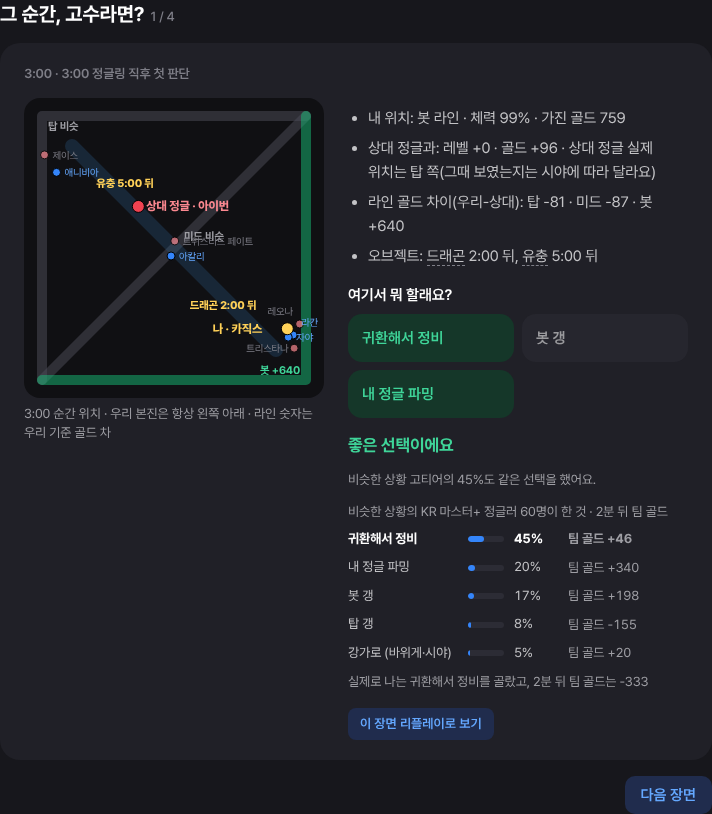
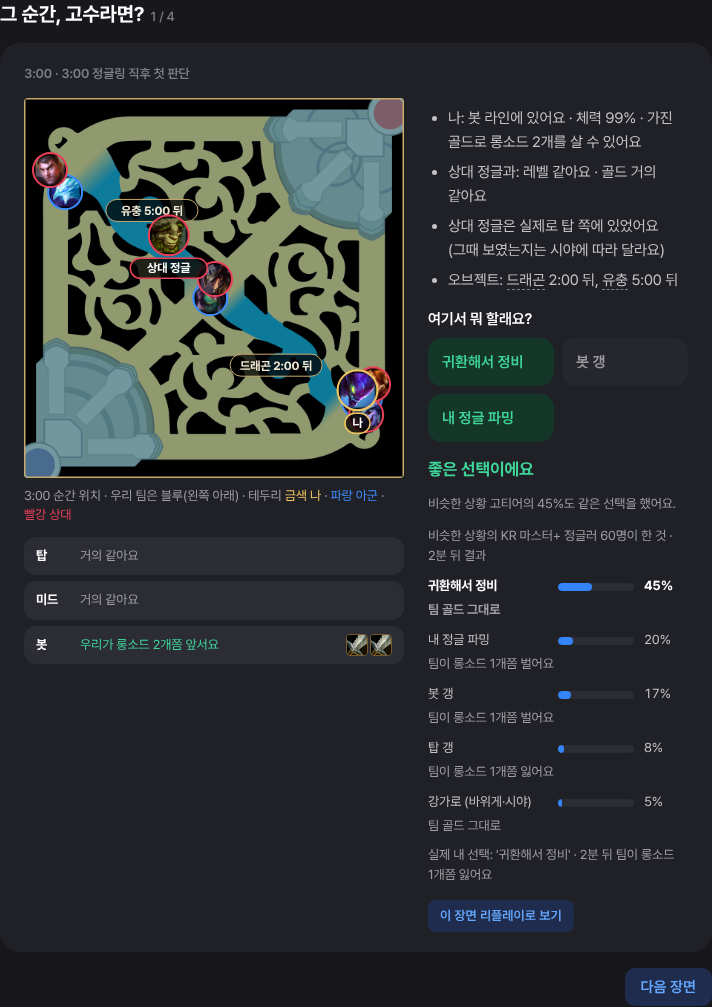
미니맵을 실제 롤 UI처럼 (지도 이미지·원형 초상화·팀 테두리·'나'/'상대 정글' 표시), 골드 차이는 아이템으로 말하기
- 골드 → 롱소드/B.F. 대검/완성 아이템 개수 (Data Dragon 최신 패치 가격), 가진 골드는 '롱소드 2개를 살 수 있어요'
- 라인 상황은 지도 밖 목록 + 아이템 아이콘, 2분 뒤 결과도 '팀이 롱소드 1개쯤 벌어요'
- Data Dragon 동기화 때 item.json 도 받음

Claude-Session: https://claude.ai/code/session_01TUbpMHnTukN67Q2yo7jTv9

diff --git a/backend/src/loldosa/app/static/js/review.js b/backend/src/loldosa/app/static/js/review.js
@@ -149,7 +149,7 @@ async function loadMoments(matchId, box) {
       <section class="card moment">
         <div class="eyebrow num">${mo.minute}:00 · ${esc(mo.reason)}</div>
         <div class="mo-grid">${board(mo.snapshot)}
-          <div><ul class="plain">${mo.snapshot.facts.map((f) => `<li>${linkify(f)}</li>`).join("")}</ul>
+          <div><ul class="plain">${mo.snapshot.facts.filter((f) => !f.startsWith("라인:")).map((f) => `<li>${linkify(f)}</li>`).join("")}</ul>
             <div class="title" style="margin:16px 0 8px">여기서 뭐 할래요?</div>
             <div class="choices">${mo.choices.map((c) => `<button class="choice" data-a="${c.action}">${esc(c.label)}</button>`).join("")}</div>
             <div class="reveal"></div></div></div>
@@ -172,11 +172,11 @@ function reveal(matchId, mo, box, choice) {
   });
   const bars = mo.crowd.slice(0, 5).map((c) => `<div class="crowd ${c.action === choice ? "picked" : ""}">
       <span>${esc(c.label)}</span><span class="bar"><i style="width:${Math.round(c.share * 100)}%"></i></span><span class="num">${Math.round(c.share * 100)}%</span>
-      <span class="sub num">팀 골드 ${signed(c.swing)}</span></div>`).join("");
+      <span class="sub">${esc(c.swing_say || "")}</span></div>`).join("");
   $(".reveal", box).innerHTML = `<div class="verdict ${good ? "good" : "bad"}">${good ? "좋은 선택이에요" : "고수는 다르게 많이 골랐어요"}</div>
     <p class="sub">${esc(mo.verdict)}</p>
-    <div class="sub" style="margin:12px 0 6px">비슷한 상황의 ${esc(mo.pool_label)} 정글러 ${mo.k}명이 한 것 · 2분 뒤 팀 골드</div>${bars}
-    <p class="sub" style="margin-top:8px">실제로 나는 ${esc(mo.mine.label)}를 골랐고, 2분 뒤 팀 골드는 ${signed(mo.mine.swing)}${mo.mine.died ? " · 내가 죽었어요" : ""}</p>
+    <div class="sub" style="margin:12px 0 6px">비슷한 상황의 ${esc(mo.pool_label)} 정글러 ${mo.k}명이 한 것 · 2분 뒤 결과</div>${bars}
+    <p class="sub" style="margin-top:8px">실제 내 선택: '${esc(mo.mine.label)}' · 2분 뒤 ${esc(mo.mine.swing_say || "")}${mo.mine.died ? " · 내가 죽었어요" : ""}</p>
     <div class="btn-row"><button class="btn weak s" id="mo-replay">이 장면 리플레이로 보기</button></div>`;
   $("#mo-replay", box).onclick = () => openReplay(matchId, mo.t);
   post("/api/moments/answer", { match_id: matchId, minute: mo.minute, choice, good, concepts: mo.concepts.map((c) => c.id),
@@ -184,38 +184,42 @@ function reveal(matchId, mo, box, choice) {
       crowd: mo.crowd.slice(0, 6), good: mo.good, verdict: mo.verdict, mine: mo.mine, k: mo.k, pool_label: mo.pool_label, concepts: mo.concepts } }).catch(() => {});
 }
 
-/** 상황판: 우리 본진 항상 왼쪽 아래, 글자 라벨, 라인 골드 차는 색+글자 (R6: 그림 없이도 facts 로 결론 전달) */
-export function board(snap, size = 300) {
-  const M = 14870, flip = snap.team === 200, S = size, pad = 18;
-  const X = (x) => ((flip ? M - x : x) / M) * S, Y = (y) => S - ((flip ? M - y : y) / M) * S;
-  const L = snap.lanes || {};
-  const cls = (v) => (v > 150 ? "win" : v < -150 ? "lose" : "even");
-  const say = (v) => (v > 150 ? `+${comma(v)}` : v < -150 ? comma(v) : "비슷");
-  const boxes = [];
-  const toks = [...snap.units].sort((a, b) => (b.me ? 3 : b.enemy_jungler ? 2 : 0) - (a.me ? 3 : a.enemy_jungler ? 2 : 0)).map((u) => {
-    const c = u.me ? "me" : u.enemy_jungler ? "ejg" : u.ally ? "ally" : "enemy";
-    const text = u.me ? `나 · ${u.name}` : u.enemy_jungler ? `상대 정글 · ${u.name}` : u.name;
-    const w = text.length * (u.me || u.enemy_jungler ? 9.5 : 8), cx = X(u.x), cy = Y(u.y);
-    let spot = null;
-    for (const [dx, dy] of [[8, 4], [8, -9], [8, 17], [-8 - w, 4], [-8 - w, -9], [8, 30]]) {
-      let bx = cx + dx; if (bx + w > S - 2) bx = cx - 8 - w; if (bx < 2) bx = 2;
-      const by = cy + dy - 10;
-      if (!boxes.some((b) => bx < b.x + b.w && bx + w > b.x && by < b.y + 12 && by + 12 > b.y)) { spot = { x: bx, y: by }; break; }
-    }
-    spot = spot || { x: Math.min(cx + 8, S - w - 2), y: cy - 6 };
-    boxes.push({ x: spot.x, y: spot.y, w });
-    return `<g class="tok ${c}"><circle cx="${cx}" cy="${cy}" r="${u.me || u.enemy_jungler ? 6 : 4}"/><text x="${spot.x}" y="${spot.y + 10}">${esc(text)}</text></g>`;
-  }).reverse().join("");
-  const objs = snap.objectives.map((o) => `<text class="obj" x="${X(o.x)}" y="${Y(o.y)}" text-anchor="middle">${esc(o.name)} ${esc(o.text)}</text>`).join("");
-  return `<figure class="board-wrap"><svg class="board" viewBox="0 0 ${S} ${S}" role="img" aria-label="${snap.minute}분 상황판">
-    <rect width="${S}" height="${S}" rx="16" class="bg"/>
-    <path d="M${pad} ${S - pad} L${pad} ${pad} L${S - pad} ${pad}" class="lane ${cls(L.top)}"/>
-    <path d="M${pad} ${S - pad} L${S - pad} ${pad}" class="lane ${cls(L.mid)}"/>
-    <path d="M${pad} ${S - pad} L${S - pad} ${S - pad} L${S - pad} ${pad}" class="lane ${cls(L.bot)}"/>
-    <path d="M${pad + 30} ${pad + 30} L${S - pad - 30} ${S - pad - 30}" class="river"/>
-    <text class="lbl ${cls(L.top)}" x="${pad + 6}" y="${pad + 14}">탑 ${say(L.top)}</text>
-    <text class="lbl ${cls(L.mid)}" x="${S / 2 + 10}" y="${S / 2 - 8}">미드 ${say(L.mid)}</text>
-    <text class="lbl ${cls(L.bot)}" x="${S - pad - 6}" y="${S - pad - 6}" text-anchor="end">봇 ${say(L.bot)}</text>
-    ${objs}${toks}</svg>
-    <figcaption class="sub">${snap.minute}:00 순간 위치 · 우리 본진은 항상 왼쪽 아래 · 라인 숫자는 우리 기준 골드 차</figcaption></figure>`;
+/** 미니맵: 실제 롤 미니맵처럼 (지도 이미지 · 원형 초상화 · 아군 파랑/적 빨강/나 금색 테두리 · 방향도 게임과 같게).
+ * 글자는 '나'와 '상대 정글'에만 단다 (나머지는 실제 미니맵처럼 얼굴로 알아보게). 라인 상황은 지도 밖에 아이템으로. */
+export function board(snap, size = 380) {
+  const M = 14870, S = size, R = Math.round(S * 0.042);  // 초상화 반지름
+  const X = (x) => (x / M) * S, Y = (y) => S - (y / M) * S;
+  const ver = state.ddragon;
+  const mapUrl = ver ? `https://ddragon.leagueoflegends.com/cdn/${ver}/img/map/map11.png` : "";
+  const units = [...snap.units].sort((a, b) => (a.me ? 1 : a.enemy_jungler ? 0.5 : 0) - (b.me ? 1 : b.enemy_jungler ? 0.5 : 0));
+  const tok = units.map((u, i) => {
+    const cx = X(u.x), cy = Y(u.y), big = u.me || u.enemy_jungler, r = big ? R + 3 : R;
+    const ring = u.me ? "var(--mm-me)" : u.ally ? "var(--mm-ally)" : "var(--mm-enemy)";
+    const img = u.key && ver ? `https://ddragon.leagueoflegends.com/cdn/${ver}/img/champion/${u.key}.png` : "";
+    const tag = u.me ? "나" : u.enemy_jungler ? "상대 정글" : "";
+    return `<g class="mm-u"><clipPath id="c${i}"><circle cx="${cx}" cy="${cy}" r="${r}"/></clipPath>
+      <circle cx="${cx}" cy="${cy}" r="${r + 2}" fill="${ring}"/>
+      ${img ? `<image href="${img}" x="${cx - r}" y="${cy - r}" width="${r * 2}" height="${r * 2}" clip-path="url(#c${i})"/>` : `<circle cx="${cx}" cy="${cy}" r="${r}" fill="#333"/>`}
+      ${tag ? `<g class="mm-tag ${u.me ? "me" : "ejg"}"><rect x="${cx - tag.length * 6.5 - 6}" y="${cy + r + 4}" width="${tag.length * 13 + 12}" height="20" rx="10"/>
+        <text x="${cx}" y="${cy + r + 18}" text-anchor="middle">${tag}</text></g>` : ""}
+      <title>${esc(u.name)}${u.hp != null ? ` · 체력 ${u.hp}%` : ""}</title></g>`;
+  }).join("");
+  const objs = snap.objectives.map((o) => `<g class="mm-obj"><rect x="${X(o.x) - 46}" y="${Y(o.y) - 11}" width="92" height="22" rx="11"/>
+    <text x="${X(o.x)}" y="${Y(o.y) + 5}" text-anchor="middle">${esc(o.name)} ${esc(o.text)}</text></g>`).join("");
+  const li = snap.lane_items || {};
+  const ITEM = (id) => (ver && id ? `<img class="mm-item" src="https://ddragon.leagueoflegends.com/cdn/${ver}/img/item/${id}.png" alt="">` : "");
+  const lane = (k, name) => {
+    const x = li[k] || {};
+    const n = Math.min(4, Math.ceil(x.count || 0));
+    const icons = x.item ? Array.from({ length: n }, () => ITEM(x.item)).join("") : "";
+    return `<li class="${!x.count ? "even" : x.ahead ? "win" : "lose"}"><b>${name}</b><span>${esc(x.say || "-")}</span><span class="icons">${icons}</span></li>`;
+  };
+  return `<figure class="minimap-wrap">
+    <svg class="minimap" viewBox="0 0 ${S} ${S}" role="img" aria-label="${snap.minute}분 미니맵">
+      ${mapUrl ? `<image href="${mapUrl}" width="${S}" height="${S}" preserveAspectRatio="none"/>` : `<rect width="${S}" height="${S}" fill="#0b1a14"/>`}
+      <rect width="${S}" height="${S}" fill="none" stroke="#c8aa6e" stroke-width="3"/>
+      ${objs}${tok}</svg>
+    <figcaption class="sub">${snap.minute}:00 순간 위치 · 우리 팀은 ${snap.team === 100 ? "블루(왼쪽 아래)" : "레드(오른쪽 위)"} · 테두리 <span style="color:var(--mm-me)">금색 나</span> · <span style="color:var(--mm-ally)">파랑 아군</span> · <span style="color:var(--mm-enemy)">빨강 상대</span></figcaption>
+    <ul class="lanes">${lane("top", "탑")}${lane("mid", "미드")}${lane("bot", "봇")}</ul>
+  </figure>`;
 }

diff --git a/backend/src/loldosa/app/static/css/screens.css b/backend/src/loldosa/app/static/css/screens.css
@@ -101,3 +101,25 @@ label.row { cursor: pointer; }
   .brief-grid { grid-template-columns: 1fr; } .teams { position: static; }
   .mo-grid, .moment .mo-grid { grid-template-columns: 1fr; } .tl-grid { grid-template-columns: 1fr; }
 }
+
+/* ---------- 미니맵 (실제 롤 UI 처럼) ---------- */
+:root { --mm-me: #f0c75e; --mm-ally: #3b8cff; --mm-enemy: #e84057; }
+.minimap-wrap { margin: 0; }
+svg.minimap { width: 100%; height: auto; display: block; border-radius: 4px; background: #0b1a14; }
+.mm-tag rect { fill: rgba(0, 0, 0, .78); }
+.mm-tag text { font: 700 12px var(--font); fill: #fff; }
+.mm-tag.me rect { stroke: var(--mm-me); stroke-width: 1.5; } .mm-tag.ejg rect { stroke: var(--mm-enemy); stroke-width: 1.5; }
+.mm-obj rect { fill: rgba(0, 0, 0, .75); stroke: #c8aa6e; stroke-width: 1; }
+.mm-obj text { font: 700 12px var(--font); fill: #f0e6d2; }
+.minimap-wrap figcaption { margin-top: 8px; }
+.lanes { list-style: none; padding: 0; margin: 12px 0 0; display: grid; gap: 6px; }
+.lanes li { display: grid; grid-template-columns: 36px 1fr auto; gap: 8px; align-items: center; padding: 8px 12px; border-radius: 12px; background: var(--bg-float); font-size: var(--t7); }
+.lanes li b { color: var(--grey900); }
+.lanes li.win span:nth-child(2) { color: var(--green-text); } .lanes li.lose span:nth-child(2) { color: var(--red-text); } .lanes li.even span:nth-child(2) { color: var(--grey600); }
+.lanes .icons { display: flex; gap: 2px; }
+.mm-item { width: 22px; height: 22px; border-radius: 4px; border: 1px solid #785a28; }
+.moment .mo-grid, .mo-grid { grid-template-columns: 380px 1fr; }
+/* 고수 선택 비율: 1줄 = 행동·막대·비율, 2줄 = 2분 뒤 결과(아이템 말) */
+.crowd { grid-template-columns: 120px 1fr 44px; row-gap: 2px; margin: 10px 0; }
+.crowd > .sub { grid-column: 1 / -1; }
+.crowd .bar { height: 8px; }

diff --git a/backend/src/loldosa/app/static/js/flows.js b/backend/src/loldosa/app/static/js/flows.js
@@ -34,7 +34,7 @@ export async function startSrs(after) {
     } else {
       const mo = it.moment;
       sh.innerHTML = `${head}<h2 class="num">${mo.minute}:00 · ${esc(mo.reason)}</h2>
-        <div class="mo-grid">${board(mo.snapshot, 260)}<div><ul class="plain">${mo.snapshot.facts.map((f) => `<li>${linkify(f)}</li>`).join("")}</ul>
+        <div class="mo-grid">${board(mo.snapshot, 340)}<div><ul class="plain">${mo.snapshot.facts.filter((f) => !f.startsWith("라인:")).map((f) => `<li>${linkify(f)}</li>`).join("")}</ul>
         <div class="title" style="margin:12px 0 8px">여기서 뭐 할래요?</div>
         <div class="choices">${mo.choices.map((c) => `<button class="choice" data-a="${c.action}">${esc(c.label)}</button>`).join("")}</div>
         <div class="reveal"></div></div></div>`;

diff --git a/backend/src/loldosa/review/moments.py b/backend/src/loldosa/review/moments.py
@@ -5,6 +5,7 @@ from __future__ import annotations
 from ..analysis.decisions import (ACTION_CONCEPTS, ACTION_KO, ACTIONS, classify_action, load_match,
                                   outcome, similar, state_vector, summarize)
 from ..analysis.geometry import relative_region
+from ..analysis.items import can_buy, gold_as_items, gold_diff_say, prices as item_prices
 from ..analysis.turns import shop_visits
 from ..briefing.engine import josa, mmss, signed
 from ..ddragon import ChampionIndex
@@ -49,6 +50,12 @@ def pick_minutes(md, pid: int, epid: int, team: int) -> list[tuple[int, str, int
     return sorted(picked)
 
 
+def _prices() -> dict:
+    from ..config import load_settings
+
+    return item_prices(str(load_settings().data_dir))
+
+
 def snapshot(md, champs: ChampionIndex, pid: int, epid: int, team: int, m: int, st: dict) -> dict:
     units = []
     for q, p in md.parts.items():
@@ -70,15 +77,32 @@ def snapshot(md, champs: ChampionIndex, pid: int, epid: int, team: int, m: int, 
     elif st["to_herald"] < 999:
         objs.append({"name": "전령", "x": PIT["baron"][0], "y": PIT["baron"][1],
                      "text": "지금 있어요" if st["to_herald"] == 0 else f"{mmss(st['to_herald'])} 뒤"})
-    facts = [
-        f"내 위치: {REGION_KO.get(st['region'], st['region'])} · 체력 {round(st['hp'] * 100)}% · 가진 골드 {int(st['gold']):,}",
-        f"상대 정글과: 레벨 {signed(st['level_diff'])} · 골드 {signed(st['gold_diff'])} · 상대 정글 실제 위치는 {'탑' if st['enemy_side_top'] else '봇'} 쪽(그때 보였는지는 시야에 따라 달라요)",
-        f"라인 골드 차이(우리-상대): 탑 {signed(st['lane_top'])} · 미드 {signed(st['lane_mid'])} · 봇 {signed(st['lane_bot'])}",
+    p = _prices()
+    lvl = st["level_diff"]
+    lanes_say = {k: gold_diff_say(st[f"lane_{k}"], p) for k in ("top", "mid", "bot")}
+    facts = [  # 골드는 숫자 대신 아이템으로: 게임 중엔 몇 골드인지 계산할 수 없어서
+        f"나: {REGION_KO.get(st['region'], st['region'])}에 있어요 · 체력 {round(st['hp'] * 100)}% · "
+        f"가진 골드로 {can_buy(st['gold'], p)}",
+        f"상대 정글과: 레벨 {'같아요' if not lvl else f'내가 {abs(lvl)} 높아요' if lvl > 0 else f'내가 {abs(lvl)} 낮아요'} · "
+        f"골드 {gold_diff_say(st['gold_diff'], p, us='내')}",
+        f"상대 정글은 실제로 {'탑' if st['enemy_side_top'] else '봇'} 쪽에 있었어요 (그때 보였는지는 시야에 따라 달라요)",
+        "라인: " + " · ".join(f"{n} {lanes_say[k]}" for k, n in (("top", "탑"), ("mid", "미드"), ("bot", "봇"))),
         "오브젝트: " + (", ".join(f"{o['name']} {o['text']}" for o in objs) if objs else "당분간 없어요")
         + (f" · 용 개수 차이 {signed(st['dragon_diff'])}" if st["dragon_diff"] else ""),
     ]
     lanes = {"top": st["lane_top"], "mid": st["lane_mid"], "bot": st["lane_bot"]}
-    return {"units": units, "objectives": objs, "facts": facts, "team": team, "minute": m, "lanes": lanes}
+    lane_items = {k: {**gold_as_items(st[f"lane_{k}"], p), "say": lanes_say[k], "ahead": st[f"lane_{k}"] > 0} for k in lanes}
+    return {"units": units, "objectives": objs, "facts": facts, "team": team, "minute": m, "lanes": lanes, "lane_items": lane_items}
+
+
+def swing_say(v, p) -> str:
+    """2분 뒤 팀 골드 변화 → '팀이 롱소드 1개쯤 벌어요' / '팀이 롱소드 1개쯤 잃어요'."""
+    if v is None:
+        return "-"
+    it = gold_as_items(v, p)
+    if not it["count"]:
+        return "팀 골드 그대로"
+    return f"팀이 {it['text']} {'벌어요' if v > 0 else '잃어요'}"
 
 
 def build_moments(con, stats, champs: ChampionIndex, match_id: str, puuid: str) -> list[dict]:
@@ -105,6 +129,9 @@ def build_moments(con, stats, champs: ChampionIndex, match_id: str, puuid: str) 
         pool = [r for r in pool if r.get("match_id") != match_id]  # 같은 경기는 비교 대상에서 뺀다
         neigh = similar(pool, st, k=60)
         crowd = summarize(neigh)
+        pr = _prices()
+        for c in crowd:
+            c["swing_say"] = swing_say(c.get("swing"), pr)
         top = [c["action"] for c in crowd[:3]]
         choices = [a for a in ACTIONS if a in set(top + [mine]) or a in ("recall", "farm")][:6]
         good = [c["action"] for c in crowd if c["share"] >= GOOD_SHARE]
@@ -122,7 +149,8 @@ def build_moments(con, stats, champs: ChampionIndex, match_id: str, puuid: str) 
             "minute": m, "t": m * 60, "reason": why,
             "snapshot": snapshot(md, champs, me, epid, team, m, st),
             "choices": [{"action": a, "label": ACTION_KO[a]} for a in choices],
-            "mine": {"action": mine, "label": ACTION_KO[mine], "swing": res["swing"], "died": res["died"], "obj": res["obj"]},
+            "mine": {"action": mine, "label": ACTION_KO[mine], "swing": res["swing"], "swing_say": swing_say(res["swing"], pr),
+                     "died": res["died"], "obj": res["obj"]},
             "crowd": crowd, "k": len(neigh), "pool_label": label, "good": good, "verdict": verdict,
             "concepts": list(dict.fromkeys(ACTION_CONCEPTS[mine] + (ACTION_CONCEPTS[best["action"]] if best else []))),
         })

diff --git a/backend/src/loldosa/analysis/items.py b/backend/src/loldosa/analysis/items.py
@@ -1,0 +1,68 @@
+"""골드를 아이템으로 말하기: '423골드 앞서요'는 감이 안 와서 '롱소드 1개쯤 앞서요'로 바꾼다.
+
+가격은 Data Dragon 최신 패치 item.json (없으면 2026 시즌 값으로 대체).
+기준 아이템: 롱소드(1036), B.F. 대검(1038), 완성 아이템(전설 아이템 평균 가격).
+"""
+
+from __future__ import annotations
+
+import json
+from functools import lru_cache
+from pathlib import Path
+
+LONG_SWORD, BF_SWORD = 1036, 1038
+FALLBACK = {"long": 350, "bf": 1300, "legend": 3000}
+
+
+@lru_cache(maxsize=4)
+def prices(data_dir: str | None = None, locale: str = "ko_KR") -> dict:
+    """{'long': 350, 'bf': 1300, 'legend': 3000(전설 아이템 평균, 100단위 반올림)}"""
+    if data_dir:
+        root = Path(data_dir) / "ddragon"
+        files = sorted(root.glob(f"*/item.{locale}.json"), key=lambda p: [int(x) for x in p.parent.name.split(".") if x.isdigit()])
+        if files:
+            d = json.loads(files[-1].read_text(encoding="utf-8"))["data"]
+            leg = [v["gold"]["total"] for v in d.values()
+                   if v.get("gold", {}).get("purchasable") and not v.get("into") and v["gold"]["total"] >= 2500
+                   and (v.get("maps") or {}).get("11", True)]
+            return {"long": d.get(str(LONG_SWORD), {}).get("gold", {}).get("total", FALLBACK["long"]),
+                    "bf": d.get(str(BF_SWORD), {}).get("gold", {}).get("total", FALLBACK["bf"]),
+                    "legend": int(round(sum(leg) / len(leg), -2)) if leg else FALLBACK["legend"]}
+    return dict(FALLBACK)
+
+
+def gold_as_items(gold: float, p: dict | None = None) -> dict:
+    """골드 양 → {'text': '롱소드 2개쯤', 'item': 1036, 'count': 2}. 150골드 미만이면 '거의 같아요'."""
+    p = p or FALLBACK
+    g = abs(gold or 0)
+    if g < 150:
+        return {"text": "거의 같아요", "item": None, "count": 0}
+    if g < p["bf"] * 0.75:  # ~975골드까지는 롱소드 개수로
+        n = max(1, round(g / p["long"]))
+        return {"text": f"롱소드 {n}개쯤", "item": LONG_SWORD, "count": n}
+    if g < p["legend"] * 0.8:  # 2,400골드까지는 B.F. 대검
+        n = max(1.0, round(g / p["bf"] * 2) / 2)  # 0.5개 단위
+        return {"text": f"B.F. 대검 {_count(n)}쯤", "item": BF_SWORD, "count": n}
+    n = max(1.0, round(g / p["legend"] * 2) / 2)
+    return {"text": f"완성 아이템 {_count(n)}쯤", "item": None, "count": n}
+
+
+def _count(n: float) -> str:
+    return f"{int(n)}개 반" if n % 1 else f"{int(n)}개"
+
+
+def gold_diff_say(diff: float, p: dict | None = None, us: str = "우리") -> str:
+    """+면 '우리가 롱소드 1개쯤 앞서요', -면 '우리가 롱소드 1개쯤 밀려요'."""
+    it = gold_as_items(diff, p)
+    if not it["count"]:
+        return "거의 같아요"
+    return f"{us}가 {it['text']} {'앞서요' if diff > 0 else '밀려요'}"
+
+
+def can_buy(gold: float, p: dict | None = None) -> str:
+    """가진 골드 → '롱소드 2개를 살 수 있어요' 같은 말."""
+    p = p or FALLBACK
+    if gold >= p["bf"]:
+        return f"B.F. 대검을 살 수 있어요" + (f" (남는 골드로 롱소드 {int((gold - p['bf']) // p['long'])}개)" if gold - p["bf"] >= p["long"] else "")
+    n = int(gold // p["long"])
+    return f"롱소드 {n}개를 살 수 있어요" if n else "아직 롱소드도 못 사요"

diff --git a/backend/tests/test_items.py b/backend/tests/test_items.py
@@ -1,0 +1,16 @@
+from loldosa.analysis.items import FALLBACK, can_buy, gold_as_items, gold_diff_say
+
+
+def test_gold_as_items_ladder():
+    assert gold_diff_say(80) == "거의 같아요"
+    assert gold_diff_say(420) == "우리가 롱소드 1개쯤 앞서요"
+    assert gold_diff_say(-700) == "우리가 롱소드 2개쯤 밀려요"
+    assert gold_as_items(1300)["text"] == "B.F. 대검 1개쯤"
+    assert gold_as_items(2000)["text"] == "B.F. 대검 1개 반쯤"
+    assert gold_as_items(6000, FALLBACK)["text"] == "완성 아이템 2개쯤"
+
+
+def test_can_buy():
+    assert can_buy(759) == "롱소드 2개를 살 수 있어요"
+    assert can_buy(100) == "아직 롱소드도 못 사요"
+    assert can_buy(1700).startswith("B.F. 대검을 살 수 있어요")

diff --git a/backend/src/loldosa/ddragon.py b/backend/src/loldosa/ddragon.py
@@ -91,6 +91,14 @@ async def sync_champions(data_dir: Path, locale: str = "ko_KR", version: str | N
             resp.raise_for_status()
             path.parent.mkdir(parents=True, exist_ok=True)
             path.write_text(resp.text, encoding="utf-8")
+        ipath = path.parent / f"item.{locale}.json"  # 골드를 아이템으로 말할 때 쓰는 가격표
+        if not ipath.exists():
+            try:
+                r = await http.get(f"{BASE}/cdn/{version}/data/{locale}/item.json")
+                r.raise_for_status()
+                ipath.write_text(r.text, encoding="utf-8")
+            except httpx.HTTPError:
+                pass
     return load_cached(data_dir, locale, version)
 
 

diff --git a/docs/DESIGN.md b/docs/DESIGN.md
@@ -234,7 +234,10 @@
 | 맨 위 | 공감 한 줄 + "이 판에서 하나만 배운다면" + 장면 제목(22px) | R1, R2 |
 | 버튼 | fill 「이 장면 리플레이로 보기」, weak 「OOO 배우기」 | 리플레이가 가장 강한 학습이에요. 버튼 이름이 결과를 말해요 |
 | 판단 훈련 | 「그 순간, 고수라면?」 한 장면씩, 1/4 표시 | 1.1. 먼저 직접 고른 뒤에 고수의 선택을 보여 줘요 |
-| 상황판 | 우리 본진은 항상 왼쪽 아래. 라인 골드 차는 색과 글자로 | R6. 그림 옆의 사실 목록만 읽어도 결론이 전달돼요 |
+| 미니맵 | 실제 롤 미니맵처럼 그려요: 지도 이미지, 원형 초상화, 테두리 금색 나·파랑 아군·빨강 상대, 방향도 게임과 같게 | 사용자 피드백: "실제 롤 UI처럼". 게임에서 매일 보는 모양이라 배울 게 없어요(Simplicity의 '본능적으로 이해') |
+| 미니맵 글자 | 글자는 '나'와 '상대 정글'에만 달고, 나머지는 얼굴로 알아보게 해요 | 이전 상황판은 이름 10개가 겹쳐서 읽히지 않았어요 |
+| 라인 상황 | 지도 밖 목록으로 빼요: "봇 · 우리가 롱소드 2개쯤 앞서요" + 롱소드 아이콘 | R6. 그림을 읽지 않아도 결론이 전달돼요 |
+| 골드 표현 | 숫자 대신 아이템으로 말해요: 롱소드 → B.F. 대검 → 완성 아이템. 가진 골드는 "롱소드 2개를 살 수 있어요" | 사용자 피드백: 게임 중엔 몇 골드인지 계산할 수 없어요. 플레이어는 아이템 값으로 생각해요(Universal words). 가격은 Data Dragon 최신 패치 값이에요 |
 | 실력 지표 | 기준선에 못 미친 것부터 5개 행 | 9개를 3개로 줄인 사례처럼, 볼 것만 남겼어요 |
 | 나머지 | 목표 체크, 다른 교훈, 잘한 점, 참고 기록, 비교표, 사건 시간표는 시트 안에 | 1.4 |
 | 불러오기 | 3단계 진행 + 실패 시 "다시 가져오기"와 "키 넣으러 가기" | R5, S2 상황→원인→해결 |
